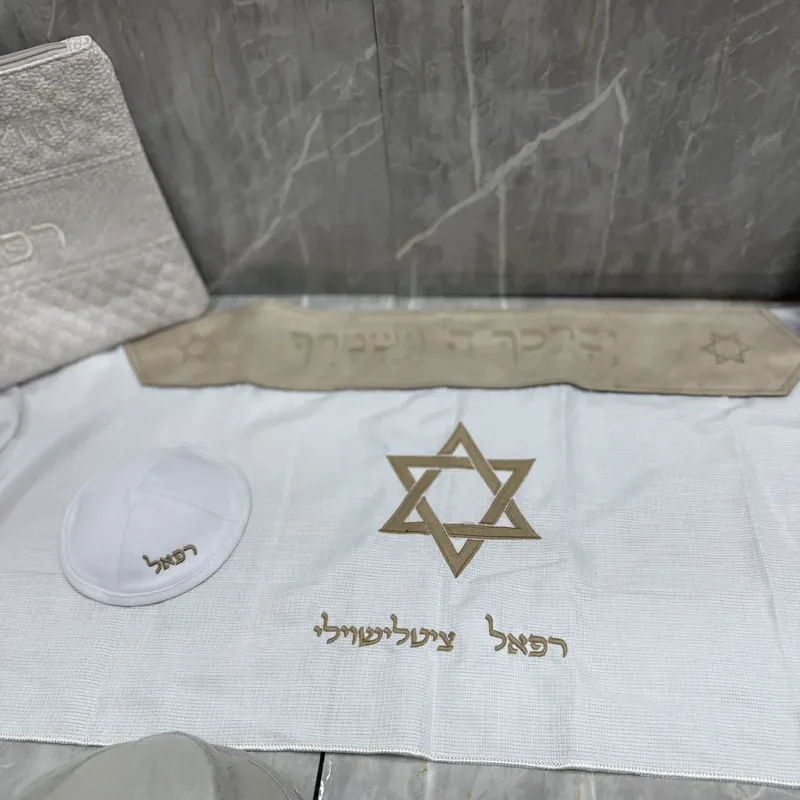
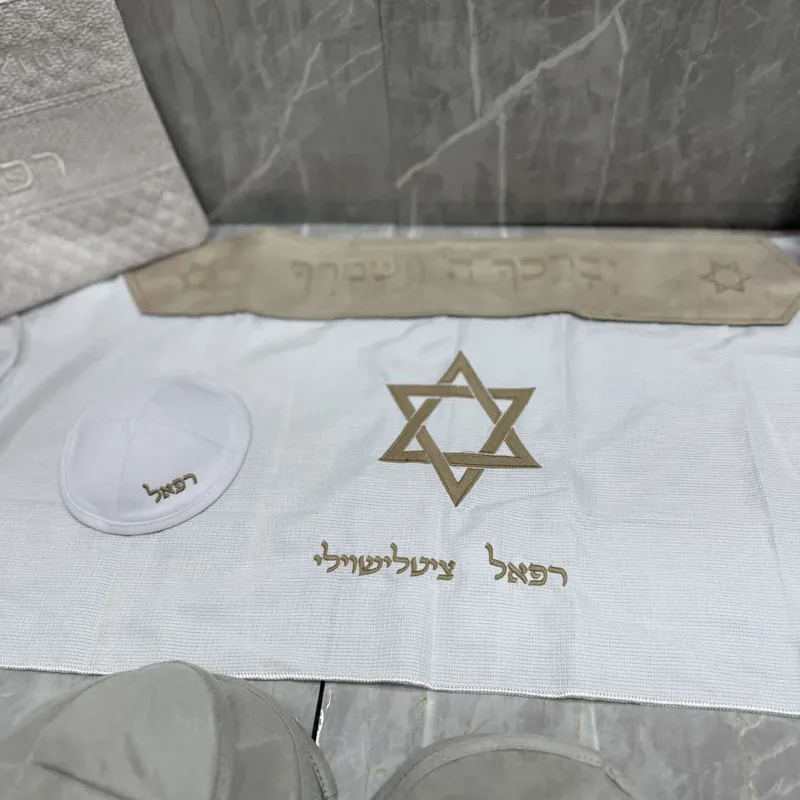
Home hero squares: phone-length labels for the tallit-bag squares, star-centred challah crop
Checked in Chromium at 390px: no square label is cut off with an ellipsis.

Claude-Session: https://claude.ai/code/session_01MjySBSDK5kgmTBEkz3he1z

diff --git a/src/components/home/hero-tile-art.ts b/src/components/home/hero-tile-art.ts
@@ -77,4 +77,8 @@ export const HERO_TILE_ART: Readonly<Record<string, TileArt>> = {
  *  for two lines of a phone square. */
 export const HERO_TILE_LABELS: Readonly<Record<string, string>> = {
   "netilat-yadaim": "נטלות",
+  // 09.11.2026: the menu's names ran to three lines on a phone and were cut
+  // off with "..." ("כיסויים לטלית...", "סטים של תיקי טלי...").
+  "talit-tefillin-covers": "תיקי טלית ותפילין",
+  "setim-talit-tefilin": "סטי טלית ותפילין",
 };
